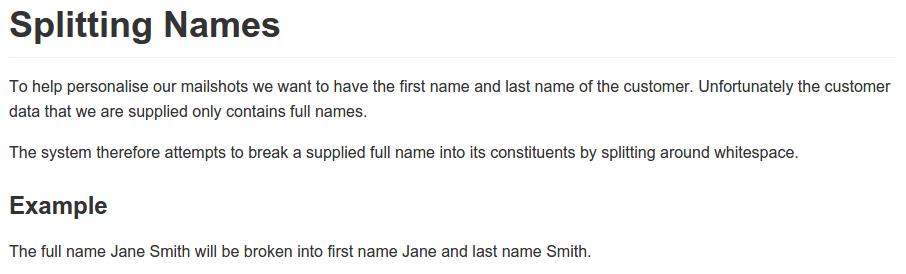
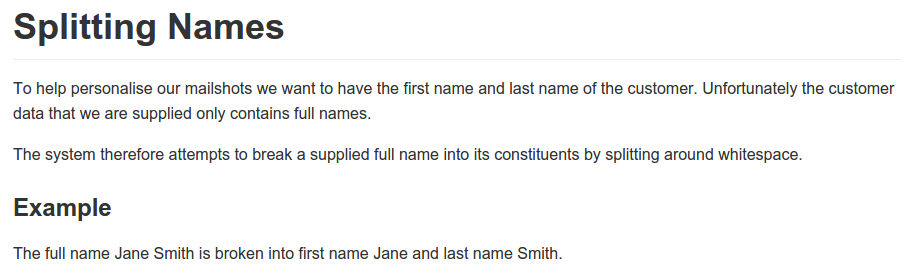
Added instrumentation to tutorial

diff --git a/tutorial.md b/tutorial.md
@@ -2,26 +2,60 @@
 
 This runs through the basics of creating living documents using Concordion. 
 
-To kickstart the tutorial, we've created a template project you can [download](https://github.com/concordion/concordion-tutorial-2.0/archive/master.zip) or [fork](https://github.com/concordion/concordion-tutorial-2.0#fork-destination-box) if you have a Github account.
+Creating a living document is a 3 step process:
 
-## Authoring
+1. Authoring
+2. Instrumenting
+3. Coding
 
-The first step is to create a specification of the new feature. In the `src/test/resources/marketing/mailshots` folder of the project, edit the file `SplittingNames.md` to contain the following.
+Depending on your skillset and role you might be involved in one or more of these steps.
+
+To follow along the tutorial, we've created a template project you can [download](https://github.com/concordion/concordion-tutorial-2.0/archive/master.zip) (or [fork](https://github.com/concordion/concordion-tutorial-2.0#fork-destination-box) if you have a Github account).
+
+
+## 1. Authoring
+
+The first step is to create a specification of the new feature. In the `src/test/resources/marketing/mailshots` folder of the tutorial project, edit the file `SplittingNames.md` to contain the following.
 
     # Splitting Names
     
     To help personalise our mailshots we want to have the first name and last name of the customer. 
     Unfortunately the customer data that we are supplied only contains full names.
     
-    The system therefore attempts to break a supplied full name into its constituents by splitting around whitespace.
+    The system therefore attempts to break a supplied full name into its constituents by splitting 
+    around whitespace.
     
     ### Example
     
-    The full name Jane Smith will be broken into first name Jane and last name Smith.
+    The full name Jane Smith is broken into first name Jane and last name Smith.
 
 This uses a formatting language called Markdown, which makes it easy to create rich documents using plain text. 
 The `#` characters at the start of the line create headings, where the heading level is determined by the number of `#` characters.
 
-Previewing our specification in Github, or in an editor that supports Markdown, we see it looks like ![preview of rendered specification](img/tutorial-authored-preview.png)
+Previewing our specification in Github, or in an editor that supports Markdown, we see it looks like ![preview of initial specification](img/tutorial-authored-preview.png)
 
 The team are happy with the specification, so we share it (for example, by adding the file to our version control system).
+
+## 2. Instrumenting
+
+In order to execute the example in the specification, we _instrument_ it with commands.
+
+The first step is to select the parts of the example that relate to _context_ (preconditions), _actions_ and _outcomes_. In this case, the context is the name `Jane Smith`, the action is `broken` and the outcomes are the first name `Jane` and last name `Smith`. We select these parts of the example using Markdown's link syntax:
+
+    The full name [Jane Smith]() is [broken]() into first name [Jane]() and last name [Smith]().
+
+Previewing our specification, we now see the example looks like ![preview of specification with links](img/tutorial-instrument-links-preview.png)
+
+Next, we add commands to the links:
+
+    The full name [Jane Smith](- "#name") is [broken](- "#result = split(#name)") 
+    into first name [Jane](- ?=#result.firstName) and last name [Smith](- ?=#result.lastName).
+
+These commands are:
+
+1. setting our _context_, by setting a new variable `#name` to the value `Jane Smith`
+2. executing our _action_, by executing the method `split()` with the variable `#name` and returning the value `#result`
+3. verifying our _outcomes_, by checking whether `#result.firstName` is set to `Jane`, and `#result.lastName` is set to `Smith`.
+
+Previewing our specification, we can hover over the links to see the command on each link ![preview of instrumented specification](img/tutorial-instrumented-preview.png).
+
